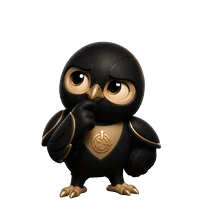
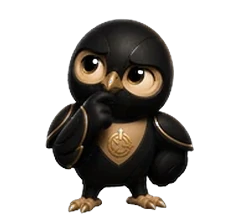
fix: de valk wisselde voortdurend van formaat, en hij staat nu stil
TWEE DINGEN, EN HET EERSTE WAS ECHT KAPOT.

De zes tekeningen zijn allemaal 216x216, dus ze LEKEN uniform. De vogel erin
was dat niet: gemeten over de niet-transparante rand verschilde zijn breedte
102 tot 163 px (60%) en zijn hoogte 158 tot 177 px (12%), elk op een andere
plek in het doek. Elke wisseling van houding liet hem dus springen in formaat
en positie. 'Nooit dezelfde grootte' was geen gevoel, dat was meetbaar.

Alle zes opnieuw uitgesneden op hun eigen rand, geschaald naar dezelfde
vogelhoogte (196 px) en op een gelijk doek gezet met de voeten op dezelfde
lijn. Hoogteverschil nu 4 px in plaats van 19, voetlijn gelijk. Op HOOGTE
genormaliseerd en niet op breedte: 'thinking' is een smalle vogel en 'error'
een brede -- op breedte gelijktrekken zou ze juist ongelijk van formaat maken.
De CSS zet daarom ook de hoogte vast en laat de breedte volgen.

Daar zat een tweede fout onder die ik zelf had moeten zien: bijna elke animatie
schaalde hem (scale(1.015) tot scale(1.06)). Twee bronnen van formaatwisseling
tegelijk.

En hij beweegt niet meer. Elf animaties eruit, en de zeven plekken zijn er een
geworden: hij blijft rechtsonder. Een gids die telkens ergens anders opduikt
laat je zoeken waar hij nu weer is, en dat is de aandacht die naar de pagina
hoort te gaan. De uitdrukking zit nu volledig in de tekening, die per sectie
nog wel wisselt.

De data-plek-waarden staan nog in de JS en wijzen allemaal naar dezelfde hoek,
[…]

Changed region(s): [[0.1667, 0.0833, 0.8056, 0.9722]]

diff --git a/css/style.css b/css/style.css
@@ -4832,8 +4832,12 @@ p { text-wrap: pretty; }
 
 /* ── De valk ─────────────────────────────────────────────────────── */
 .faro-gids-img {
-  width: 180px;
+  /* Vaste HOOGTE, breedte volgt. De zes tekeningen zijn genormaliseerd op
+     hoogte met de voeten op dezelfde lijn (240x224 doek), dus een vaste
+     breedte zou ze juist weer uit verhouding trekken -- 'thinking' is een
+     smalle vogel, 'error' een brede. */
   height: 180px;
+  width: auto;
   flex: none;
   /* Geen kader meer, dus hij draagt zijn eigen leesbaarheid. */
   filter: drop-shadow(0 14px 30px rgba(0, 0, 0, .5))
@@ -4841,45 +4845,17 @@ p { text-wrap: pretty; }
   transform-origin: 50% 85%;     /* draait om zijn voeten, niet om zijn buik */
 }
 
-/* ── Elf uitdrukkingen uit zes tekeningen ───────────────────────── */
-[data-stem="rust"]         .faro-gids-img { animation: faro-breathe 4.6s ease-in-out infinite; }
-[data-stem="nieuwsgierig"] .faro-gids-img { animation: faro-schuin  3.4s ease-in-out infinite; }
-[data-stem="knikt"]        .faro-gids-img { animation: faro-knikt   2.2s ease-in-out infinite; }
-[data-stem="wijst"]        .faro-gids-img { animation: faro-leunt   3.0s ease-in-out infinite; }
-[data-stem="denkt"]        .faro-gids-img { animation: faro-denkt   2.8s ease-in-out infinite; }
-[data-stem="speurt"]       .faro-gids-img { animation: faro-speurt  5.2s ease-in-out infinite; }
-[data-stem="werkt"]        .faro-gids-img { animation: faro-werkt   1.9s ease-in-out infinite; }
-[data-stem="rekent"]       .faro-gids-img { animation: faro-rekent  1.1s ease-in-out infinite; }
-[data-stem="wiegt"]        .faro-gids-img { animation: faro-drijft  6.5s ease-in-out infinite; }
-[data-stem="juicht"]       .faro-gids-img { animation: faro-juicht  620ms cubic-bezier(.34, 1.56, .64, 1) 2 forwards; }
-[data-stem="trots"]        .faro-gids-img { animation: faro-trots   1.6s ease-in-out infinite; }
+/* ── Geen beweging ──────────────────────────────────────────────────
+   Hier stonden elf animaties: ademen, knikken, schuin kijken, leunen.
+   Die zijn eruit op verzoek, en er zat een echt probleem onder dat ik
+   zelf had moeten zien: bijna al die bewegingen schaalden hem
+   (scale(1.015) tot scale(1.06)). Samen met zes tekeningen waarin de
+   vogel 60% in breedte verschilde, stond hij dus voortdurend van formaat
+   te wisselen. "Nooit dezelfde grootte" was geen gevoel maar een
+   optelsom van twee fouten.
 
-@keyframes faro-schuin {
-  0%, 100% { transform: rotate(0deg)    translateY(0);    }
-  50%      { transform: rotate(-5deg)   translateY(-3px); }
-}
-@keyframes faro-knikt {
-  0%, 100% { transform: translateY(0)   scale(1);    }
-  30%      { transform: translateY(6px) scale(.985); }
-  60%      { transform: translateY(-2px) scale(1.005); }
-}
-@keyframes faro-leunt {
-  0%, 100% { transform: translateX(0)   rotate(0deg);  }
-  50%      { transform: translateX(-8px) rotate(-3deg); }
-}
-@keyframes faro-speurt {
-  0%, 100% { transform: rotate(0deg);   }
-  25%      { transform: rotate(6deg);   }
-  60%      { transform: rotate(-6deg);  }
-}
-@keyframes faro-rekent {
-  0%, 100% { transform: scale(1)     translateY(0);    }
-  50%      { transform: scale(1.02)  translateY(-2px); }
-}
-@keyframes faro-trots {
-  0%, 100% { transform: translateY(0)    scale(1);     }
-  50%      { transform: translateY(-6px) scale(1.03);  }
-}
+   De uitdrukking zit nu volledig in de TEKENING. Die wisselt per sectie
+   en verder staat hij stil. */
 
 /* ── De tekstballon ──────────────────────────────────────────────────
    Een strakke ronde ballon met een punt naar de valk. Geen wolk.
@@ -4945,18 +4921,16 @@ p { text-wrap: pretty; }
 }
 .faro-gids-sluit:hover { color: #14110C; background: rgba(20, 17, 12, .09); }
 
-/* ── Acht plekken ────────────────────────────────────────────────────
-   De 'boven'-varianten beginnen onder de vaste kopbalk, anders schuift
-   hij eronder. De ballon staat altijd aan de kant van het schermmidden,
-   zodat hij nooit half buiten beeld hangt. */
-.faro-gids[data-plek="rechtsonder"]  { right: 26px; bottom: 26px; left: auto; top: auto;  flex-direction: row; }
-.faro-gids[data-plek="linksonder"]   { left: 26px;  bottom: 26px; right: auto; top: auto; flex-direction: row-reverse; }
-.faro-gids[data-plek="rechtsmidden"] { right: 26px; top: 40%;     left: auto;  bottom: auto; flex-direction: row; }
-.faro-gids[data-plek="linksmidden"]  { left: 26px;  top: 40%;     right: auto; bottom: auto; flex-direction: row-reverse; }
-.faro-gids[data-plek="rechtsboven"]  { right: 26px; top: 15%;     left: auto;  bottom: auto; flex-direction: row; }
-.faro-gids[data-plek="linksboven"]   { left: 26px;  top: 15%;     right: auto; bottom: auto; flex-direction: row-reverse; }
-.faro-gids[data-plek="rechtslaag"]   { right: 26px; bottom: 16%;  left: auto;  top: auto;    flex-direction: row; }
-.faro-gids[data-plek="linkslaag"]    { left: 26px;  bottom: 16%;  right: auto; top: auto;    flex-direction: row-reverse; }
+/* ── Eén vaste plek ─────────────────────────────────────────────────
+   Hij verhuisde per sectie tussen zeven hoeken. Dat is eruit: hij blijft
+   rechtsonder staan. Een gids die telkens ergens anders opduikt, laat je
+   zoeken waar hij nu weer is -- en dat is precies de aandacht die naar de
+   pagina hoort te gaan.
+
+   De data-plek-waarden blijven bestaan in de JS; ze wijzen nu allemaal
+   naar dezelfde hoek. Zo is het één regel om er ooit weer variatie in te
+   brengen, zonder dode code. */
+.faro-gids[data-plek] { right: 26px; bottom: 26px; left: auto; top: auto; flex-direction: row; }
 
 @keyframes faro-ballon-in {
   from { opacity: 0; transform: translateY(10px) scale(.92); }

diff --git a/index.html b/index.html
@@ -33,7 +33,7 @@
   <script>/* Thema vooraf zetten zodat de pagina niet even in de verkeerde kleur flitst */
     (function(){try{var t=localStorage.getItem('helvaro_theme');document.documentElement.setAttribute('data-theme',t==='light'?'light':'dark');}catch(e){document.documentElement.setAttribute('data-theme','dark');}})();
   </script>
-  <link rel="stylesheet" href="css/style.css?v=59">
+  <link rel="stylesheet" href="css/style.css?v=60">
   <script type="application/ld+json">
   {
     "@context": "https://schema.org",
@@ -657,7 +657,7 @@
     </div>
   </footer>
 
-  <script src="js/main.js?v=24"></script>
+  <script src="js/main.js?v=25"></script>
   <script src="js/i18n.js?v=26"></script>
 
   <!-- ── Faro loopt met je mee ────────────────────────────────────────────
@@ -674,7 +674,7 @@
               aria-label="Faro verbergen">&times;</button>
     </div>
     <img class="faro-gids-img" id="faroGidsImg" src="assets/faro/falcon-idle.webp"
-         alt="" aria-hidden="true" width="112" height="112" decoding="async">
+         alt="" aria-hidden="true" width="240" height="224" decoding="async">
   </aside>
 </body>
 </html>

diff --git a/aanmelden.html b/aanmelden.html
@@ -33,7 +33,7 @@
   <script>/* Thema vooraf zetten zodat de pagina niet even in de verkeerde kleur flitst */
     (function(){try{var t=localStorage.getItem('helvaro_theme');document.documentElement.setAttribute('data-theme',t==='light'?'light':'dark');}catch(e){document.documentElement.setAttribute('data-theme','dark');}})();
   </script>
-  <link rel="stylesheet" href="css/style.css?v=59">
+  <link rel="stylesheet" href="css/style.css?v=60">
   <script type="application/ld+json">
   { "@context": "https://schema.org", "@type": "BreadcrumbList", "itemListElement": [
       { "@type": "ListItem", "position": 1, "name": "Home", "item": "https://helvaro.pro/" },
@@ -319,7 +319,7 @@
     </div>
   </footer>
 
-  <script src="js/main.js?v=24"></script>
+  <script src="js/main.js?v=25"></script>
   <script src="js/signup.js?v=6"></script>
 <script src="js/i18n.js?v=26"></script>
 </body>

diff --git a/contact.html b/contact.html
@@ -33,7 +33,7 @@
   <script>/* Thema vooraf zetten zodat de pagina niet even in de verkeerde kleur flitst */
     (function(){try{var t=localStorage.getItem('helvaro_theme');document.documentElement.setAttribute('data-theme',t==='light'?'light':'dark');}catch(e){document.documentElement.setAttribute('data-theme','dark');}})();
   </script>
-  <link rel="stylesheet" href="css/style.css?v=59">
+  <link rel="stylesheet" href="css/style.css?v=60">
   <script type="application/ld+json">
   { "@context": "https://schema.org", "@type": "BreadcrumbList", "itemListElement": [
       { "@type": "ListItem", "position": 1, "name": "Home", "item": "https://helvaro.pro/" },
@@ -371,7 +371,7 @@
     </div>
   </footer>
 
-  <script src="js/main.js?v=24"></script>
+  <script src="js/main.js?v=25"></script>
   <script src="js/i18n.js?v=26"></script>
 </body>
 </html>

diff --git a/meeting.html b/meeting.html
@@ -33,7 +33,7 @@
   <script>/* Thema vooraf zetten zodat de pagina niet even in de verkeerde kleur flitst */
     (function(){try{var t=localStorage.getItem('helvaro_theme');document.documentElement.setAttribute('data-theme',t==='light'?'light':'dark');}catch(e){document.documentElement.setAttribute('data-theme','dark');}})();
   </script>
-  <link rel="stylesheet" href="css/style.css?v=59">
+  <link rel="stylesheet" href="css/style.css?v=60">
   <script type="application/ld+json">
   { "@context": "https://schema.org", "@type": "BreadcrumbList", "itemListElement": [
       { "@type": "ListItem", "position": 1, "name": "Home", "item": "https://helvaro.pro/" },
@@ -359,7 +359,7 @@
     </div>
   </footer>
 
-  <script src="js/main.js?v=24"></script>
+  <script src="js/main.js?v=25"></script>
   <script src="js/i18n.js?v=26"></script>
 </body>
 </html>

diff --git a/privacybeleid.html b/privacybeleid.html
@@ -33,7 +33,7 @@
   <script>/* Thema vooraf zetten zodat de pagina niet even in de verkeerde kleur flitst */
     (function(){try{var t=localStorage.getItem('helvaro_theme');document.documentElement.setAttribute('data-theme',t==='light'?'light':'dark');}catch(e){document.documentElement.setAttribute('data-theme','dark');}})();
   </script>
-  <link rel="stylesheet" href="css/style.css?v=59">
+  <link rel="stylesheet" href="css/style.css?v=60">
   <script type="application/ld+json">
   { "@context": "https://schema.org", "@type": "BreadcrumbList", "itemListElement": [
       { "@type": "ListItem", "position": 1, "name": "Home", "item": "https://helvaro.pro/" },
@@ -373,7 +373,7 @@
     </div>
   </footer>
 
-  <script src="js/main.js?v=24"></script>
+  <script src="js/main.js?v=25"></script>
   <script src="js/i18n.js?v=26"></script>
 </body>
 </html>

diff --git a/waarom.html b/waarom.html
@@ -33,7 +33,7 @@
   <script>/* Thema vooraf zetten zodat de pagina niet even in de verkeerde kleur flitst */
     (function(){try{var t=localStorage.getItem('helvaro_theme');document.documentElement.setAttribute('data-theme',t==='light'?'light':'dark');}catch(e){document.documentElement.setAttribute('data-theme','dark');}})();
   </script>
-  <link rel="stylesheet" href="css/style.css?v=59">
+  <link rel="stylesheet" href="css/style.css?v=60">
   <script type="application/ld+json">
   { "@context": "https://schema.org", "@type": "BreadcrumbList", "itemListElement": [
       { "@type": "ListItem", "position": 1, "name": "Home", "item": "https://helvaro.pro/" },
@@ -707,7 +707,7 @@
     </div>
   </footer>
 
-  <script src="js/main.js?v=24"></script>
+  <script src="js/main.js?v=25"></script>
   <script src="js/i18n.js?v=26"></script>
 </body>
 </html>

diff --git a/js/main.js b/js/main.js
@@ -965,7 +965,9 @@ function initFaroGids() {
     doos.setAttribute('data-stem', g.stem || 'rust');
     /* De ballon staat altijd aan de kant van het schermmidden, dus de
        staart wijst naar de valk en niet het beeld uit. */
-    doos.setAttribute('data-kant', plek.indexOf('rechts') === 0 ? 'rechts' : 'links');
+    /* Hij staat altijd rechtsonder, dus de ballon staat altijd links van
+       hem en de punt wijst naar rechts. */
+    doos.setAttribute('data-kant', 'rechts');
     img.src = 'assets/faro/falcon-' + g.pose + '.webp';
     reg.textContent = g[taal()] || g.nl;
     /* De ballon opnieuw laten opkomen bij elke nieuwe zin. Zonder dit
